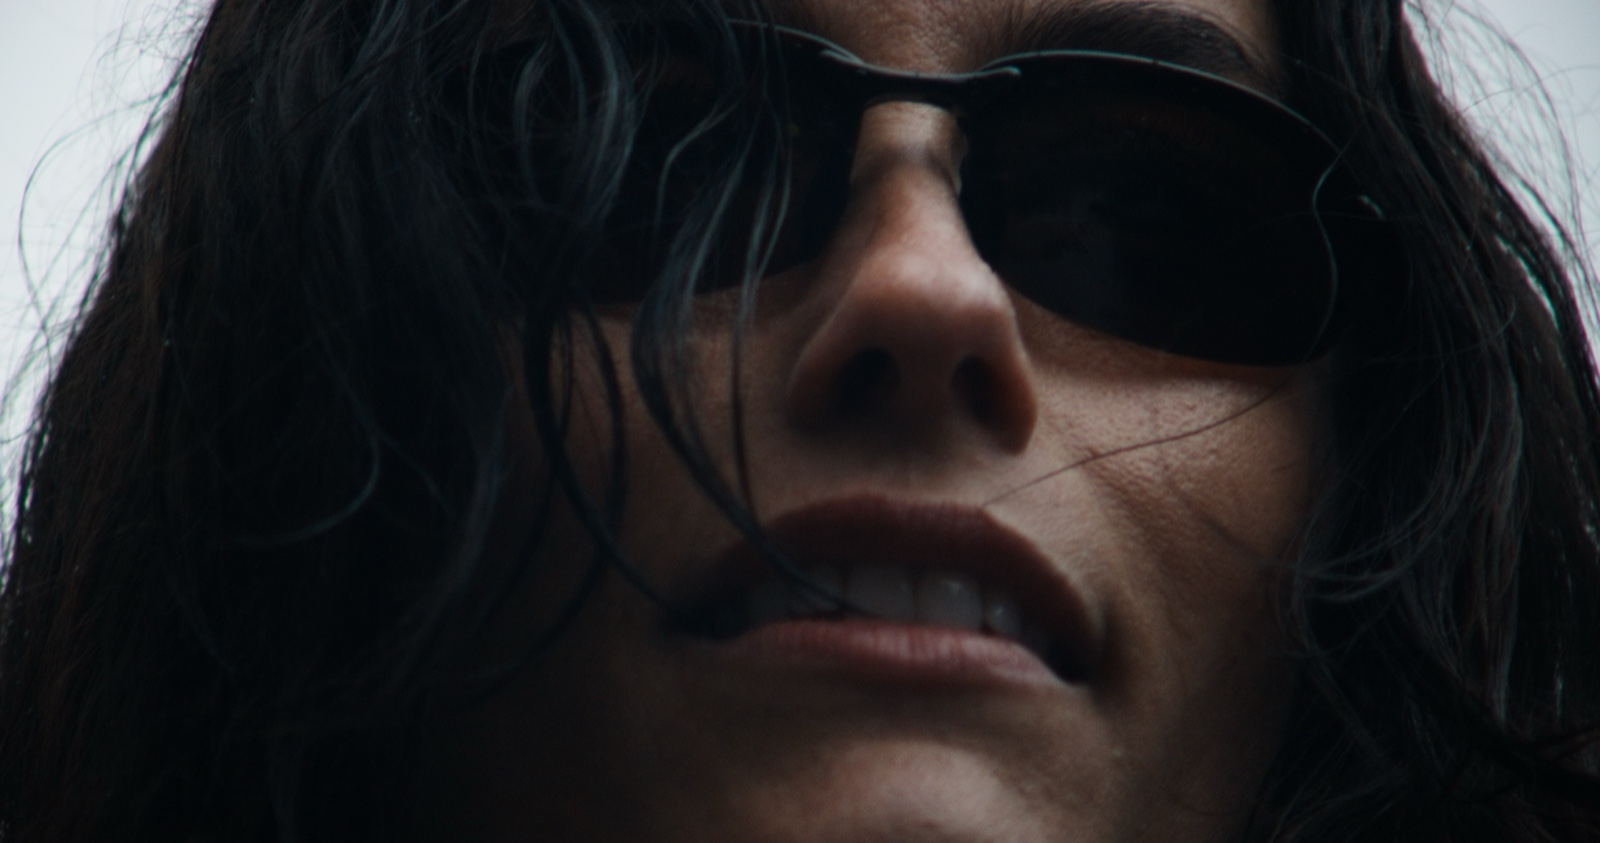
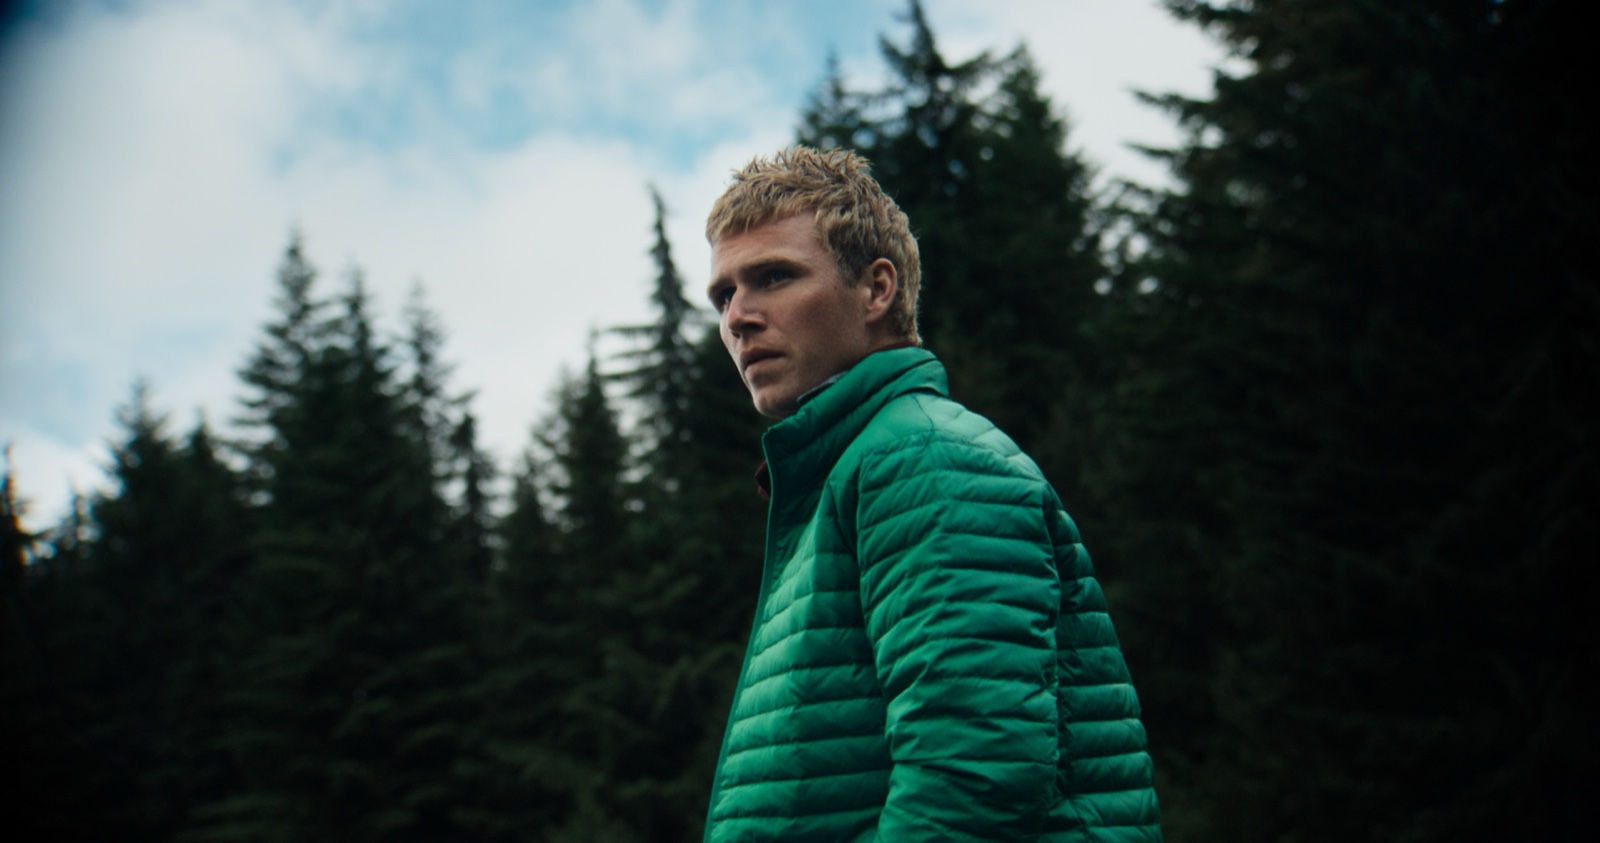
Update posters and Eddie Bauer title
- Walmart x Steve Madden poster now uses the 2nd of the 4 project stills
  (shared by grid tile and project-page hero video)
- Eddie Bauer poster reverted to the original forest/jacket still
- Eddie Bauer project renamed to 'Eddie Bauer FW 26' across grid tiles,
  page title, meta tags, and the project page heading

diff --git a/eddie-bauer.html b/eddie-bauer.html
@@ -3,9 +3,9 @@
 <head>
     <meta charset="UTF-8">
     <meta name="viewport" content="width=device-width, initial-scale=1.0, viewport-fit=cover">
-    <title>Eddie Bauer | Monty Thomas</title>
-    <meta name="description" content="Eddie Bauer — Director of Photography, Editor, Colorist work by Monty Thomas.">
-    <meta property="og:title" content="Eddie Bauer | Monty Thomas">
+    <title>Eddie Bauer FW 26 | Monty Thomas</title>
+    <meta name="description" content="Eddie Bauer FW 26 — Director of Photography, Editor, Colorist work by Monty Thomas.">
+    <meta property="og:title" content="Eddie Bauer FW 26 | Monty Thomas">
     <meta property="og:image" content="https://montythomas.com/projects/eddie-bauer/eddie-bauer-poster.jpg">
     <meta property="og:type" content="video.other">
     <meta name="twitter:card" content="summary_large_image">
@@ -45,7 +45,7 @@
             </div>
 
             <div class="project-credits">
-                <h1 class="project-credits-title">Eddie Bauer</h1>
+                <h1 class="project-credits-title">Eddie Bauer FW 26</h1>
                 <p>DP, Editor, Colorist: <span class="credit-value">Monty Thomas</span></p>
                 <p>Creative Director: <span class="credit-value">Matthew Ellenberger</span></p>
                 <p>1st Photo Assistant: <span class="credit-value">Katherine Fox</span></p>

diff --git a/index.html b/index.html
@@ -44,7 +44,7 @@
                             <source src="projects/eddie-bauer/Eddie-Bauer-Grid.mp4" type="video/mp4">
                         </video>
                     </div>
-                    <h3 class="project-title">Eddie Bauer</h3>
+                    <h3 class="project-title">Eddie Bauer FW 26</h3>
                 </a>
             </div>
             <div class="grid-item">

diff --git a/work.html b/work.html
@@ -38,7 +38,7 @@
                             <source src="projects/eddie-bauer/Eddie-Bauer-Grid.mp4" type="video/mp4">
                         </video>
                     </div>
-                    <h3 class="project-title">Eddie Bauer</h3>
+                    <h3 class="project-title">Eddie Bauer FW 26</h3>
                 </a>
             </div>
             <div class="grid-item">
